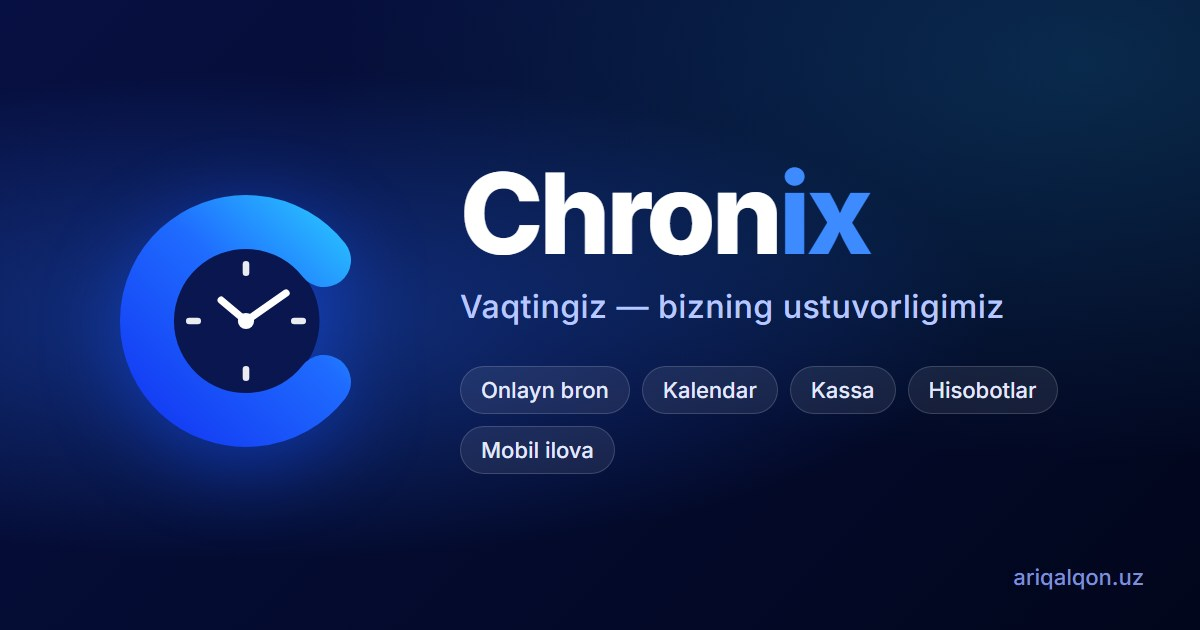
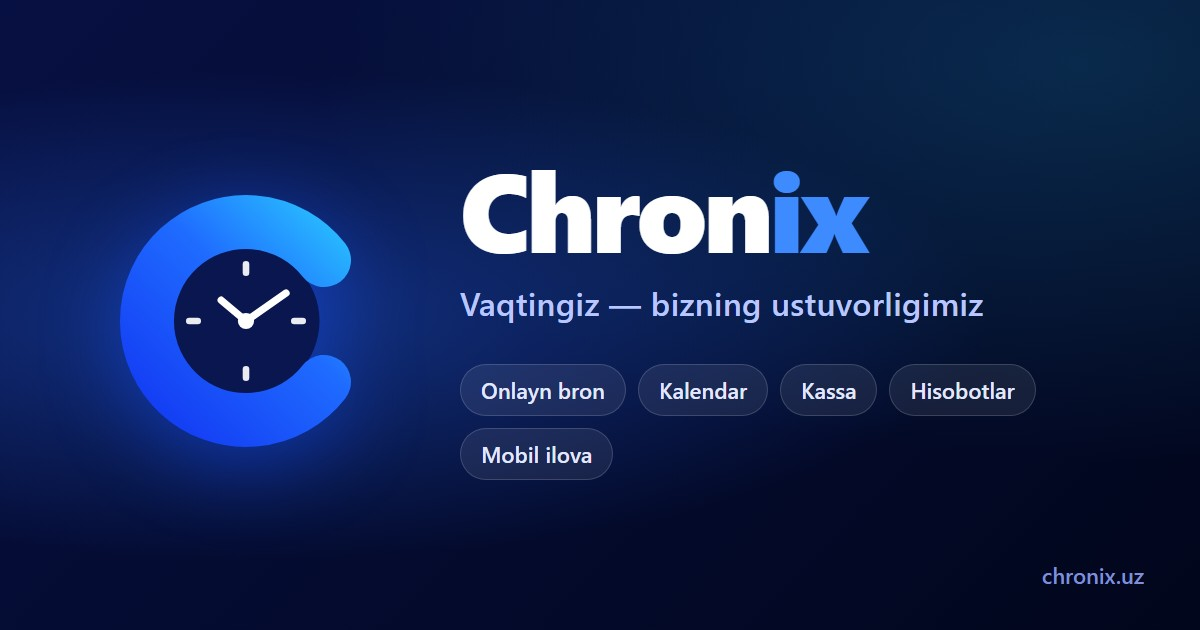
Domen: ariqalqon.uz -> chronix.uz (kod tayyor, serverda o'tish skripti)
- backend: standart panel manzillari chronix.uz, testlar yangilandi
- landing: havolalar, og:url/og:image, ijtimoiy tarmoq rasmi chronix.uz bilan qayta chizildi
- mobil: EXPO_PUBLIC_API_URL va OSM Referer chronix.uz
- veb: Super Admin oynalaridagi panel manzili matni
- deploy/switch-domain.sh: .env'da yangi domen asosiy, eski domen taxallus bo'lib ishlayveradi;
  DNS ko'rinmasa ishga tushmaydi

diff --git a/web/src/i18n/ru_pages.ts b/web/src/i18n/ru_pages.ts
@@ -458,7 +458,7 @@ export const RU_PAGES: Record<string, string> = {
   "Avval turini tanlang": "Сначала выберите тип",
   "Ma'lumot": "Информация",
   "Direktor:": "Директор:",
-  "Direktorning kirish ma'lumotlari (www.ariqalqon.uz)": "Данные для входа директора (www.ariqalqon.uz)",
+  "Direktorning kirish ma'lumotlari (www.chronix.uz)": "Данные для входа директора (www.chronix.uz)",
   "Turi": "Тип",
   "Hozir:": "Сейчас:",
   "{a} gacha": "до {a}",
@@ -562,7 +562,7 @@ export const RU_PAGES: Record<string, string> = {
   "Hozirgi direktor (": "Текущий директор (",
   "Menejer bo'lib qolsin": "Остаётся менеджером",
   "Muassasadan chiqarilsin (hisobi o'chmaydi, bu muassasaga kira olmaydi)": "Исключить из заведения (аккаунт не удаляется, но войти в это заведение не сможет)",
-  "Bu odam muassasada xodim bo'lsa, o'sha a'zolik direktorga ko'tariladi. Yangi direktor www.ariqalqon.uz dan shu telefon va parol bilan kiradi.": "Если этот человек уже сотрудник заведения, его членство повышается до директора. Новый директор входит на www.ariqalqon.uz с этим телефоном и паролем.",
+  "Bu odam muassasada xodim bo'lsa, o'sha a'zolik direktorga ko'tariladi. Yangi direktor www.chronix.uz dan shu telefon va parol bilan kiradi.": "Если этот человек уже сотрудник заведения, его членство повышается до директора. Новый директор входит на www.chronix.uz с этим телефоном и паролем.",
   "Ism shu telefon egasining hamma muassasalarida \"": "Имя владельца этого телефона во всех его заведениях станет «",
   "\" bo'ladi. Rozimisiz? Yana bir marta bosing.": "». Согласны? Нажмите ещё раз.",
   "o'rniga": "вместо",

diff --git a/landing/index.html b/landing/index.html
@@ -9,15 +9,15 @@
   <meta property="og:title" content="Chronix — barcha xizmatlar bir joyda" />
   <meta property="og:description" content="Onlayn bron, kalendar, kassa, ombor va hisobotlar — bitta platformada." />
   <meta property="og:type" content="website" />
-  <meta property="og:url" content="https://ariqalqon.uz/" />
+  <meta property="og:url" content="https://chronix.uz/" />
   <meta property="og:site_name" content="Chronix" />
-  <meta property="og:image" content="https://ariqalqon.uz/og-image.jpg" />
+  <meta property="og:image" content="https://chronix.uz/og-image.jpg" />
   <meta property="og:image:type" content="image/jpeg" />
   <meta property="og:image:width" content="1200" />
   <meta property="og:image:height" content="630" />
   <meta property="og:image:alt" content="Chronix — vaqtingiz, bizning ustuvorligimiz" />
   <meta name="twitter:card" content="summary_large_image" />
-  <meta name="twitter:image" content="https://ariqalqon.uz/og-image.jpg" />
+  <meta name="twitter:image" content="https://chronix.uz/og-image.jpg" />
   <link rel="icon" type="image/svg+xml" href="/logo.svg" />
   <link rel="icon" type="image/png" sizes="64x64" href="/favicon.png" />
   <link rel="apple-touch-icon" href="/favicon.png" />

diff --git a/landing/src/config.js b/landing/src/config.js
@@ -1,12 +1,12 @@
 // Sayt sozlamalari — havolalar va tariflar shu yerda o'zgartiriladi.
 // Bo'sh havola ("") bosilsa "Tez orada" xabari chiqadi.
 export const LINKS = {
-  panel: "https://www.ariqalqon.uz/",          // direktor / xodimlar paneli (login)
+  panel: "https://www.chronix.uz/",          // direktor / xodimlar paneli (login)
   play: "",                                     // Google Play sahifasi — ilova chiqqanda qo'yiladi
   appstore: "",                                 // App Store sahifasi — Apple Developer hisobidan keyin
   phone: "+998200035599",
   telegram: "https://t.me/JabborqulovUmidjon",
-  api: "https://api.ariqalqon.uz",              // tarif narxlari shu yerdan olinadi (Super Admin -> Narxlar)
+  api: "https://api.chronix.uz",              // tarif narxlari shu yerdan olinadi (Super Admin -> Narxlar)
 };
 
 // Tarif NARXLARI va qaysi tarif faolligi Super Admin panelidagi "Narxlar" sahifasidan olinadi (nomi bo'yicha

diff --git a/web/src/modules/superadmin/BusinessDialogs.tsx b/web/src/modules/superadmin/BusinessDialogs.tsx
@@ -198,7 +198,7 @@ export function BusinessDialog({ business: b, modules, onClose, initialTab = "in
         <span>{t("Direktor: {a}", { a: b.owner_name ?? t("yo'q") })}</span>
         <StatusBadge b={b} />
       </p>
-      <CredentialsBox title={t("Direktorning kirish ma'lumotlari (www.ariqalqon.uz)")} businessId={b.id}
+      <CredentialsBox title={t("Direktorning kirish ma'lumotlari (www.chronix.uz)")} businessId={b.id}
         memberId={b.owner_member_id} phone={b.owner_phone} status={b.owner_password_status}
         changedAt={b.owner_password_changed_at} canView onChanged={refreshAll} />
       <OwnerChange business={b} />

diff --git a/web/src/modules/superadmin/OwnerChange.tsx b/web/src/modules/superadmin/OwnerChange.tsx
@@ -110,7 +110,7 @@ export function OwnerChange({ business: b }: { business: BusinessAdmin }) {
       )}
       {!sameOwner && (
         <p className="text-xs text-muted">
-          {t("Bu odam muassasada xodim bo'lsa, o'sha a'zolik direktorga ko'tariladi. Yangi direktor www.ariqalqon.uz dan shu telefon va parol bilan kiradi.")}
+          {t("Bu odam muassasada xodim bo'lsa, o'sha a'zolik direktorga ko'tariladi. Yangi direktor www.chronix.uz dan shu telefon va parol bilan kiradi.")}
         </p>
       )}
       {confirming && sameOwner && (

diff --git a/mobile/src/OsmMap.tsx b/mobile/src/OsmMap.tsx
@@ -7,7 +7,7 @@ import { WebView, WebViewMessageEvent, WebViewProps } from 'react-native-webview
 import { BusinessCard } from './api';
 
 // OSM xarita rasmlari Referer'siz bloklanadi: sahifa shu manzildan ochilgandek ko'rinadi
-const BASE_URL = 'https://ariqalqon.uz/';
+const BASE_URL = 'https://chronix.uz/';
 
 // WebView klassining turlari React 19 bilan to'g'ri ishlamaydi
 const MapView = WebView as unknown as ComponentType<WebViewProps & { ref: RefObject<WebView | null> }>;

diff --git a/web/src/panelHost.ts b/web/src/panelHost.ts
@@ -1,3 +1,3 @@
-// Qaysi panel ochilgan: ega.ariqalqon.uz — Super Admin, qolgani — salon paneli.
+// Qaysi panel ochilgan: ega.chronix.uz (eski: ega.ariqalqon.uz) — Super Admin, qolgani — salon paneli.
 // Haqiqiy ajratishni server qiladi (backend/app/core/panels.py), bu faqat ko'rinish uchun.
 export const isAdminHost = /^(www\.)?ega\./.test(window.location.hostname);

diff --git a/landing/scripts/og-image.html b/landing/scripts/og-image.html
@@ -32,5 +32,5 @@
       <span class="chip">Hisobotlar</span><span class="chip">Mobil ilova</span>
     </div>
   </div>
-  <div class="url">ariqalqon.uz</div>
+  <div class="url">chronix.uz</div>
 </body></html>

diff --git a/backend/app/core/config.py b/backend/app/core/config.py
@@ -32,10 +32,10 @@ class Settings(BaseSettings):
     cors_origins: list[str] = []
 
     # Panellarni domen bo'yicha ajratish (app/core/panels.py). Bo'sh — cheklov yo'q
-    admin_panel_hosts: list[str] = []          # faqat Super Admin: ["ega.ariqalqon.uz", "www.ega.ariqalqon.uz"]
-    business_panel_hosts: list[str] = []       # Super Admin kirmaydi: ["ariqalqon.uz", "www.ariqalqon.uz"]
-    admin_panel_url: str = "https://ega.ariqalqon.uz"
-    business_panel_url: str = "https://www.ariqalqon.uz"
+    admin_panel_hosts: list[str] = []          # faqat Super Admin: ["ega.chronix.uz"]
+    business_panel_hosts: list[str] = []       # Super Admin kirmaydi: ["www.chronix.uz", "admin.chronix.uz"]
+    admin_panel_url: str = "https://ega.chronix.uz"
+    business_panel_url: str = "https://www.chronix.uz"
 
     # Yuklangan rasmlar: papka va ochiq manzil (prod'da Caddy /media ni beradi, https bo'lishi shart)
     media_dir: str = "media"
@@ -62,7 +62,7 @@ class Settings(BaseSettings):
     # Xaritaning o'zi mobil ilovada Yandex MapKit (alohida, mobil kalit) bilan chiziladi.
     yandex_geocoder_api_key: SecretStr | None = None
     # Yandex Maps JavaScript API kaliti — faqat mijoz ilovasidagi xarita uchun (ochiq ilova: bepul shart).
-    # Sir emas (brauzerga boradi), Yandex kabinetida HTTP Referer = ariqalqon.uz bilan cheklanadi.
+    # Sir emas (brauzerga boradi), Yandex kabinetida HTTP Referer = chronix.uz bilan cheklanadi.
     # Bo'sh bo'lsa ilova OpenStreetMap ishlatadi. Panellar doim OpenStreetMap (yopiq + koordinata saqlanadi).
     yandex_maps_js_key: str | None = None
     # Veb-panel xaritasi uchun ALOHIDA kalit: panel yopiq, Yandex bu kalitni cheklasa ilova xaritasi ishlayveradi

diff --git a/backend/tests/test_panels.py b/backend/tests/test_panels.py
@@ -10,7 +10,7 @@ SA_LOGIN = {"phone": "+998900000001", "password": "SuperPass123"}
 def test_superadmin_logs_in_only_on_admin_host(client):
     r = client.post("/api/v1/auth/login", headers=PANEL, json=SA_LOGIN)
     assert r.status_code == 403 and r.json()["detail"]["code"] == "wrong_panel"
-    assert "ega.ariqalqon.uz" in r.json()["detail"]["message"]
+    assert "ega.chronix.uz" in r.json()["detail"]["message"]
     assert client.post("/api/v1/auth/login", headers=ADMIN, json=SA_LOGIN).status_code == 200
 
 
@@ -29,7 +29,7 @@ def test_director_and_staff_only_on_business_panel(client, superadmin):
     assert r.status_code == 201, r.text
     login = {"phone": phone, "password": "Direktor2026ab"}
     r = client.post("/api/v1/auth/login", headers=ADMIN, json=login)
-    assert r.status_code == 403 and "www.ariqalqon.uz" in r.json()["detail"]["message"]
+    assert r.status_code == 403 and "www.chronix.uz" in r.json()["detail"]["message"]
     tokens = client.post("/api/v1/auth/login", headers=PANEL, json=login)
     assert tokens.status_code == 200
     assert client.get("/api/v1/auth/me", headers={**auth_header(tokens.json()), **ADMIN}).status_code == 403

diff --git a/backend/app/core/panels.py b/backend/app/core/panels.py
@@ -1,8 +1,9 @@
 """Panellarni domen bo'yicha ajratish (foydalanuvchi talabi, 2026-11-04).
 
-  ega.ariqalqon.uz  — faqat Super Admin
-  www.ariqalqon.uz  — direktorlar va xodimlar (Super Admin bu yerda kira olmaydi)
-  api.ariqalqon.uz  — mobil ilova (cheklov yo'q)
+  ega.chronix.uz    — faqat Super Admin
+  www.chronix.uz    — direktorlar va xodimlar (Super Admin bu yerda kira olmaydi)
+  api.chronix.uz    — mobil ilova (cheklov yo'q)
+  (2026-11 gacha ariqalqon.uz edi; eski manzillar o'tish davrida taxallus sifatida ishlaydi)
 
 Veb-panel API'ni o'z domeni orqali chaqiradi (Caddy /api ni uzatadi, Host o'zgarmaydi), shuning uchun
 server so'rov qaysi paneldan kelganini Host bo'yicha aniq biladi. Ro'yxatlar bo'sh bo'lsa (dev, testlar) — cheklov yo'q.

diff --git a/backend/app/schemas/__init__.py b/backend/app/schemas/__init__.py
@@ -191,7 +191,7 @@ class BusinessCreate(BaseModel):
     @field_validator("slug")
     @classmethod
     def _not_reserved(cls, v: str) -> str:
-        # Havola panel manzili ham bo'ladi (www.ariqalqon.uz/<havola>): tizim yo'llari bilan to'qnashmasin
+        # Havola panel manzili ham bo'ladi (www.chronix.uz/<havola>): tizim yo'llari bilan to'qnashmasin
         if v in RESERVED_SLUGS:
             raise ValueError("Bu havola band, boshqasini tanlang")
         return v
